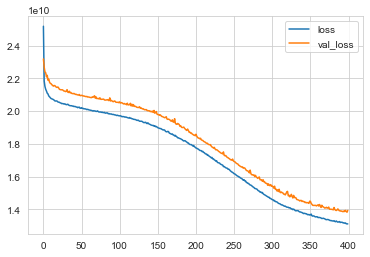
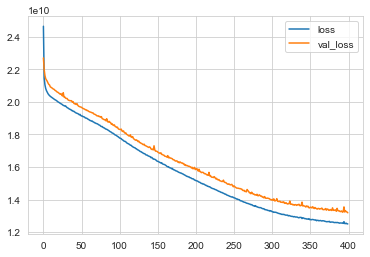
Update to house price project

diff --git a/_posts/2020-11-19-Predict House Price.md b/_posts/2020-11-19-Predict House Price.md
@@ -6,7 +6,6 @@ excerpt: "Data Science, Deep Learning, Neural Network"
 mathjax: "true"
 ---
 
-
 ### Objective: To determine the price of the house using deep neural network. We've been provided with historical data and fetaures of the house.  
 [Source:](https://www.udemy.com/course/python-for-data-science-and-machine-learning-bootcamp/) Udemy | Python for Data Science and Machine Learning Bootcamp  
 Data used in the below analysis: [Housing data from Kaggle](https://www.kaggle.com/harlfoxem/housesalesprediction).
@@ -520,9 +519,7 @@ plt.figure(figsize=(12,8))
 sns.distplot(data['price'])
 ```
 
-
 <img src="{{ site.url }}{{ site.baseurl }}/images/House Predictions/dist1_keras.png">
-
 
 
 _The data is mostly concentrated around 1,000,000 - 2,000,000 with few houses at 3,000,000 and even at around 7,500,000_
@@ -580,6 +577,8 @@ sns.scatterplot(x='price',y='sqft_living',data=data)
 ```
 
 
+
+
 <img src="{{ site.url }}{{ site.baseurl }}/images/House Predictions/scatter1_keras.png">
 
 
@@ -591,6 +590,7 @@ sns.boxplot(x='bedrooms',y='price',data=data)
 ```
 
 
+
 <img src="{{ site.url }}{{ site.baseurl }}/images/House Predictions/box_keras.png">
 
 
@@ -600,6 +600,7 @@ sns.boxplot(x='bedrooms',y='price',data=data)
 plt.figure(figsize=(12,8))
 sns.scatterplot(x='price',y='long',data=data)
 ```
+
 
 <img src="{{ site.url }}{{ site.baseurl }}/images/House Predictions/scatter2_keras.png">
 
@@ -625,6 +626,7 @@ sns.scatterplot(x='long',y='lat',data=data,hue='price')
 
 
 <img src="{{ site.url }}{{ site.baseurl }}/images/House Predictions/scatter4_keras.png">
+
 
 
 _We can clean data to get a better plot of house prices_
@@ -1194,6 +1196,7 @@ sns.scatterplot(x='long',y='lat',data=non_top_1_percent,
 ```
 
 
+
 <img src="{{ site.url }}{{ site.baseurl }}/images/House Predictions/scatter5_keras.png">
 
 
@@ -1241,8 +1244,6 @@ sns.boxplot(x='month',y='price',data=data)
 ```python
 data.groupby(by='month').mean()['price'].plot()
 ```
-
-
 <img src="{{ site.url }}{{ site.baseurl }}/images/House Predictions/plot1_keras.png">
 
 
@@ -1251,7 +1252,6 @@ data.groupby(by='month').mean()['price'].plot()
 #price vs year
 data.groupby(by='year').mean()['price'].plot()
 ```
-
 
 <img src="{{ site.url }}{{ site.baseurl }}/images/House Predictions/plot2_keras.png">
 
@@ -1398,24 +1398,21 @@ model.fit(x=Xtrain,y=ytrain,
 ```
 
     Epoch 1/400
-    119/119 [==============================] - 0s 2ms/step - loss: 430241349632.0000 - val_loss: 418922692608.0000
+    119/119 [==============================] - 0s 3ms/step - loss: 430242594816.0000 - val_loss: 418922102784.0000
     Epoch 2/400
-    119/119 [==============================] - 0s 1ms/step - loss: 429360381952.0000 - val_loss: 415949946880.0000
+    119/119 [==============================] - 0s 2ms/step - loss: 428868403200.0000 - val_loss: 413837787136.0000
     Epoch 3/400
-    119/119 [==============================] - 0s 1ms/step - loss: 417961672704.0000 - val_loss: 390411911168.0000
+    119/119 [==============================] - 0s 2ms/step - loss: 407161012224.0000 - val_loss: 363431297024.0000
     Epoch 4/400
-    119/119 [==============================] - 0s 1ms/step - loss: 362967072768.0000 - val_loss: 298817191936.0000
+    119/119 [==============================] - 0s 2ms/step - loss: 303796158464.0000 - val_loss: 206461501440.0000
     Epoch 5/400
-    119/119 [==============================] - 0s 1ms/step - loss: 234846666752.0000 - val_loss: 154322370560.0000
-    Epoch 6/400
-    119/119 [==============================] - 0s 1ms/step - loss: 121333202944.0000 - val_loss: 97280843776.0000
-    Epoch 7/400
-    119/119 [==============================] - 0s 1ms/step - loss: 98753257472.0000 - val_loss: 94313840640.0000
+    119/119 [==============================] - 0s 2ms/step - loss: 143996928000.0000 - val_loss: 98603425792.0000
     .
     .
     .
     Epoch 400/400
-    119/119 [==============================] - 0s 2ms/step - loss: 29929684992.0000 - val_loss: 27626838016.0000
+    119/119 [==============================] - 0s 2ms/step - loss: 29113778176.0000 - val_loss: 26656872448.0000
+
 
 
 
@@ -1431,12 +1428,11 @@ losses = pd.DataFrame(model.history.history)
 losses.plot()
 ```
 
-
-
 <img src="{{ site.url }}{{ site.baseurl }}/images/House Predictions/plot3_keras.png">
 
 
-_Expected behaviour of our model with loss vs Val_loss. We can train at more epochs as loss is still over val_loss and it's not yet overfitting_
+
+_Expected behaviour of our model with loss vs Val_loss. We can train at more epochs as loss is still over val_loss and it's not overfitting yet_
 
 ### Evaluating the model performance
 
@@ -1457,9 +1453,9 @@ print("Mean_squared_error:",  mean_squared_error(ytest,predictions))
 print("Root_Mean_Squared_error:", np.sqrt(mean_squared_error(ytest,predictions)))
 ```
 
-    Mean_absolute_error: 103103.7446638696
-    Mean_squared_error: 27626834030.167973
-    Root_Mean_Squared_error: 166213.2185783308
+    Mean_absolute_error: 101612.238435571
+    Mean_squared_error: 26656866746.557117
+    Root_Mean_Squared_error: 163269.30742352377
 
 
 
@@ -1474,7 +1470,7 @@ data['price'].describe()['mean'] #checking the mean price
 
 
 
-_Our model is off by about 19.08% (Mean absolute error) of the mean value of price. It is not too bad but not great as such_
+_Our model is off by about 19% (Mean absolute error) of the mean value of price. It is not too bad but not great as such_
 
 
 ```python
@@ -1486,7 +1482,7 @@ explained_variance_score(ytest,predictions)
 
 
 
-    0.7918666773104263
+    0.799128091503277
 
 
 
@@ -1498,9 +1494,7 @@ plt.scatter(ytest,predictions)
 plt.plot(ytest,ytest,'r')
 ```
 
-
 <img src="{{ site.url }}{{ site.baseurl }}/images/House Predictions/scatter6_keras.png">
-
 
 _The plot of predicted vs true values seem fine except for some outliers_
 
@@ -1521,7 +1515,7 @@ single_house = scale.transform(single_house.values.reshape(-1, 19)) #transform t
 print("Error:", abs(data.iloc[0]['price']-model.predict(single_house)[0][0]))
 ```
 
-    Error: 58779.65625
+    Error: 63496.40625
 
 
 _We can try to reduce error on the current rendered model by removing outliers and by increasing the epochs. We'll try  with removing outliers._
@@ -1557,21 +1551,20 @@ model.fit(x=Xtrain,y=ytrain,
 ```
 
     Epoch 1/400
-    117/117 [==============================] - 0s 2ms/step - loss: 25183025152.0000 - val_loss: 23184056320.0000
+    117/117 [==============================] - 0s 3ms/step - loss: 24656377856.0000 - val_loss: 22707032064.0000
     Epoch 2/400
-    117/117 [==============================] - 0s 2ms/step - loss: 21834297344.0000 - val_loss: 22692438016.0000
+    117/117 [==============================] - 0s 2ms/step - loss: 21469505536.0000 - val_loss: 21987682304.0000
     Epoch 3/400
-    117/117 [==============================] - 0s 2ms/step - loss: 21505099776.0000 - val_loss: 22398056448.0000
+    117/117 [==============================] - 0s 2ms/step - loss: 21053581312.0000 - val_loss: 21625681920.0000
     Epoch 4/400
-    117/117 [==============================] - 0s 2ms/step - loss: 21330776064.0000 - val_loss: 22338795520.0000
+    117/117 [==============================] - 0s 2ms/step - loss: 20826849280.0000 - val_loss: 21429176320.0000
     Epoch 5/400
-    117/117 [==============================] - 0s 2ms/step - loss: 21221902336.0000 - val_loss: 22094151680.0000
+    117/117 [==============================] - 0s 3ms/step - loss: 20693381120.0000 - val_loss: 21351958528.0000
     .
     .
     .
     Epoch 400/400
-    117/117 [==============================] - 0s 2ms/step - loss: 13105951744.0000 - val_loss: 13929935872.0000
-
+    117/117 [==============================] - 0s 2ms/step - loss: 12499646464.0000 - val_loss: 13185313792.0000
 
 
 
@@ -1583,7 +1576,7 @@ losses.plot()
 <img src="{{ site.url }}{{ site.baseurl }}/images/House Predictions/plot4_keras.png">
 
 
-_The new model shows some spikes in the val_loss which means its overfitting at a few places. We'll ignore this for now._
+_The new model shows some spikes in the val_loss which means its overfitting at a few places._
 
 
 ```python
@@ -1595,18 +1588,18 @@ predictions = model.predict(Xtest)
 print("Mean_absolute_error:", mean_absolute_error(ytest,predictions))
 print("Mean_squared_error:",  mean_squared_error(ytest,predictions))
 print("Root_Mean_Squared_error:", np.sqrt(mean_squared_error(ytest,predictions)))
-data['price'].describe()['mean']
+non_top_1_percent['price'].describe()['mean']
 ```
 
-    Mean_absolute_error: 79021.48011009353
-    Mean_squared_error: 13929933365.425364
-    Root_Mean_Squared_error: 118025.1387011486
+    Mean_absolute_error: 75475.24519924006
+    Mean_squared_error: 13185316548.521532
+    Root_Mean_Squared_error: 114827.33362976575
 
 
 
 
 
-    540296.5735055795
+    518367.48037977645
 
 
 
@@ -1618,7 +1611,7 @@ explained_variance_score(ytest,predictions)
 
 
 
-    0.8321614513919094
+    0.8400017690813121
 
 
 
@@ -1630,10 +1623,32 @@ plt.scatter(ytest,predictions)
 plt.plot(ytest,ytest,'r')
 ```
 
+
+
 <img src="{{ site.url }}{{ site.baseurl }}/images/House Predictions/scatter7_keras.png">
 
 
 
-### Result: We were able to create a model and predict house prices post feature engineering and were also able to improve the error rate from 19% to 14.6%.  
+```python
+single_house = data.drop('price',axis=1).iloc[0]
+single_house = scale.transform(single_house.values.reshape(-1, 19))
+```
+
+
+```python
+print("Error:", abs(data.iloc[0]['price']-model.predict(single_house)[0][0]))
+```
+
+    Error: 39714.4375
+
+
+_The error in prediction has also reduced from before_
+
+### Result: We were able to create a model and predict house prices post feature engineering and were also able to improve the error rate from 19% to 14.5%.  
 #### Our model is not great at predicting the outliers but can moslty predict values in the most common range.  
-#### The ability to explain variance has also increased from 79% to 83%.
+#### The ability to explain variance has also increased from 80% to 84%.
+
+
+```python
+
+```
